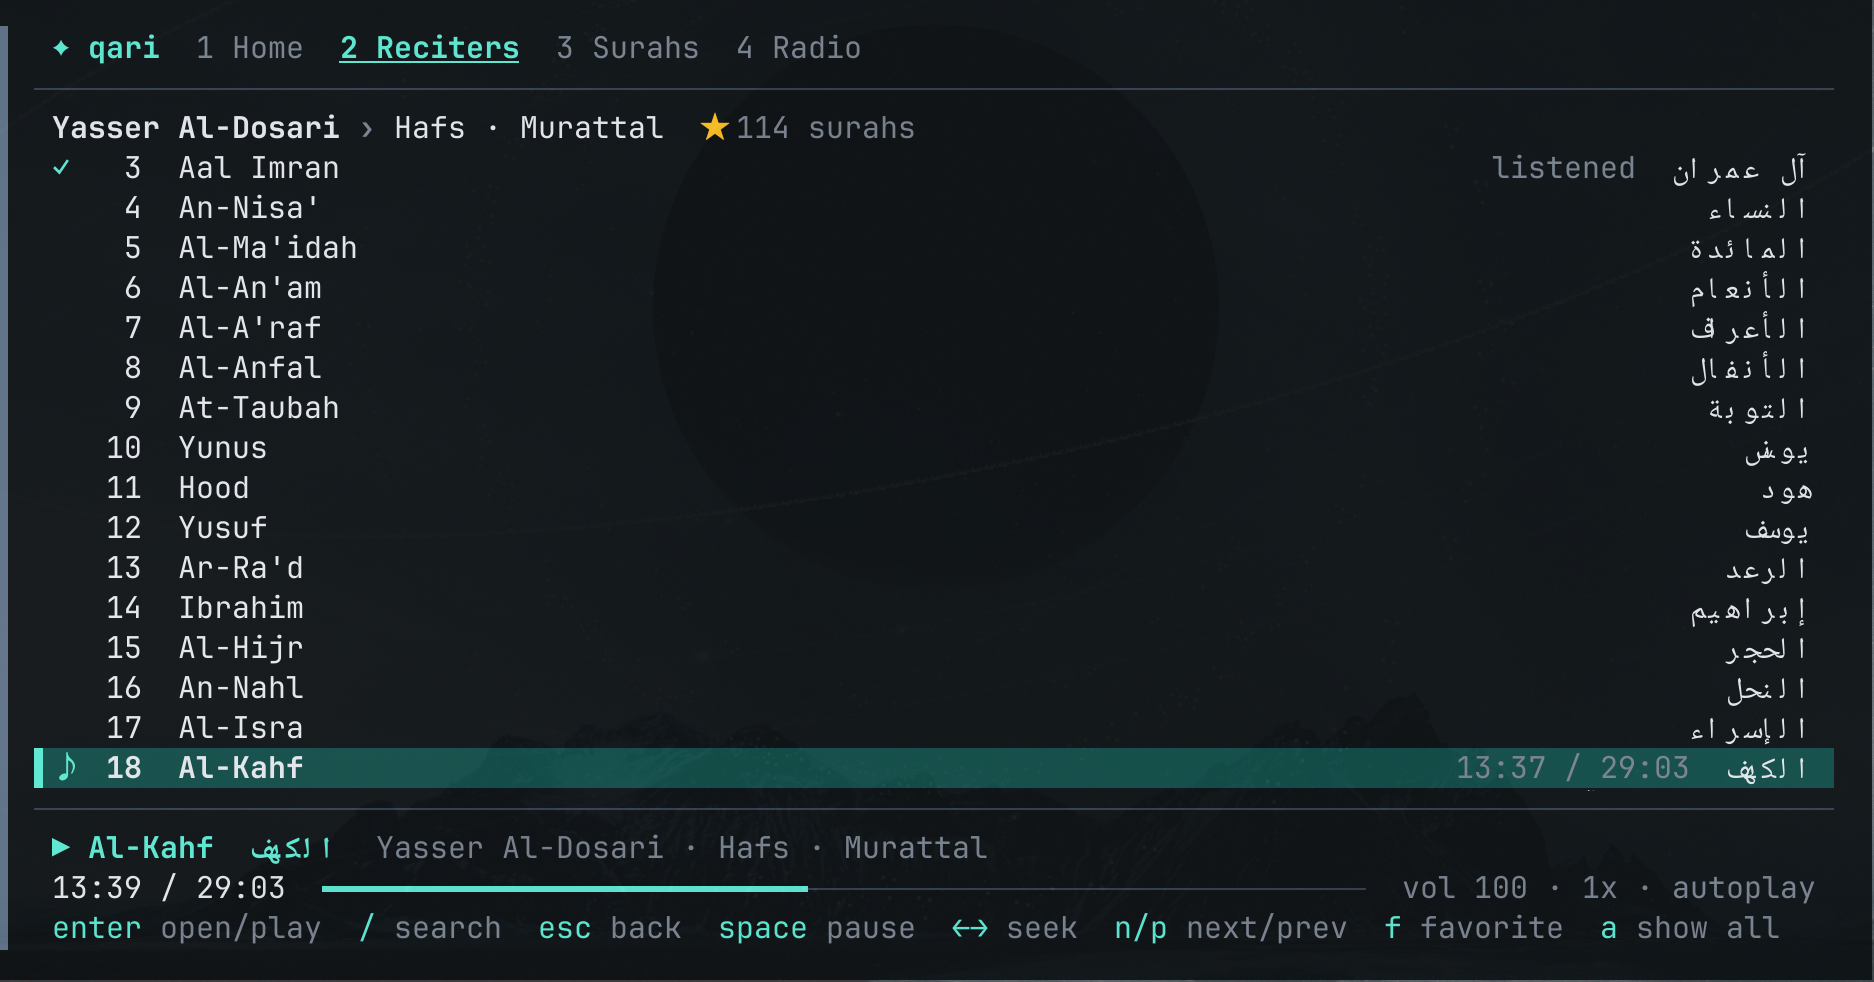
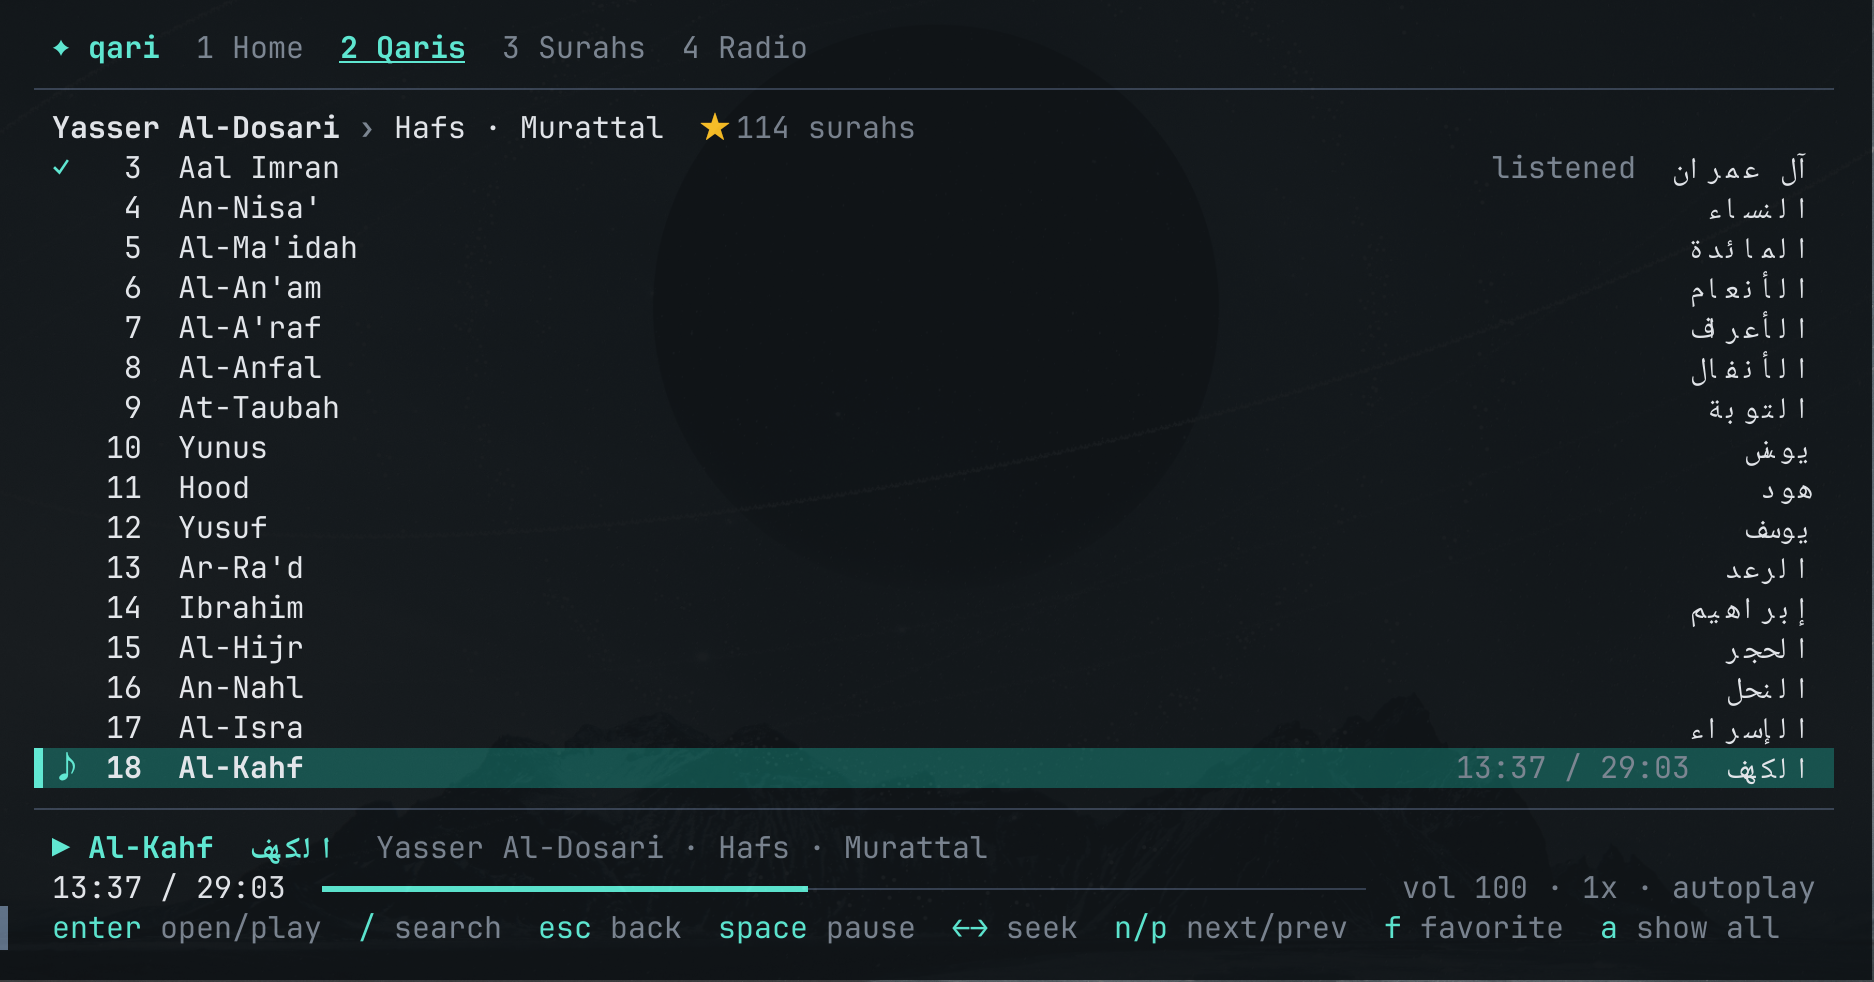
Call reciters qaris; keep their Arabic names searchable but hidden

Changed region(s): [[0.0, 0.0305, 0.0309, 0.9165], [0.1857, 0.0305, 0.4642, 0.0611]]

diff --git a/internal/ui/view.go b/internal/ui/view.go
@@ -21,7 +21,7 @@ func (m Model) View() string {
 		return m.errorView()
 	}
 	if m.cat == nil {
-		return "\n  " + m.spin.View() + sText.Render(" Loading reciters from mp3quran.net…")
+		return "\n  " + m.spin.View() + sText.Render(" Loading qaris from mp3quran.net…")
 	}
 	if m.showHelp {
 		return m.helpView()
@@ -66,9 +66,9 @@ func (m Model) crumbView() string {
 		title = "Home"
 	case scrReciters:
 		list, hidden := m.filteredReciters(s.surah)
-		title = "Reciters"
+		title = "Qaris"
 		if s.surah > 0 {
-			title = "Reciters of " + m.cat.SurahName(s.surah)
+			title = "Qaris of " + m.cat.SurahName(s.surah)
 		}
 		info = fmt.Sprintf("%d shown", len(list))
 		if hidden > 0 {
@@ -89,7 +89,7 @@ func (m Model) crumbView() string {
 		}
 	case scrAllSurahs:
 		title = "Surahs"
-		info = "enter: choose a reciter"
+		info = "enter: choose a qari"
 	case scrRadio:
 		title = "Radio"
 		info = fmt.Sprintf("%d live stations", len(m.cat.Radios))
@@ -218,8 +218,8 @@ func (m Model) helpView() string {
 			{"o", "open what is playing"},
 		}},
 		{"Filters", [][2]string{
-			{"a", "all reciters / well-known complete ones"}, {"s", "sort: popular, a-z, recently updated"},
-			{"w", "cycle riwayah (Hafs, Warsh, …)"}, {"f", "add / remove favorite"}, {"A", "show / hide Arabic names"},
+			{"a", "all qaris / well-known complete ones"}, {"s", "sort: popular, a-z, recently updated"},
+			{"w", "cycle riwayah (Hafs, Warsh, …)"}, {"f", "add / remove favorite"}, {"A", "show / hide Arabic surah names"},
 		}},
 		{"Playback", [][2]string{
 			{"space", "pause / resume"}, {"← →", "seek 10 s"}, {"[ ]", "seek 1 min"}, {"n p", "next / previous surah"},

diff --git a/internal/ui/rows.go b/internal/ui/rows.go
@@ -83,7 +83,8 @@ func (m *Model) filteredReciters(surah int) (list []*api.ReciterEntry, hidden in
 }
 
 func (m *Model) reciterRow(r *api.ReciterEntry, surah int) row {
-	rw := row{title: r.Name, arabic: r.Arabic, search: r.Search, data: r, metaSt: sDim}
+	// The Arabic name is searchable (r.Search) but not shown, to keep rows calm.
+	rw := row{title: r.Name, search: r.Search, data: r, metaSt: sDim}
 	if m.opt.Store.Favorites[r.ID] {
 		rw.mark, rw.markSt = "★", sGold
 	}
@@ -267,7 +268,7 @@ func (m *Model) homeRows() []row {
 	}
 	if len(favs) > 0 {
 		sort.Slice(favs, func(i, j int) bool { return norm.Fold(favs[i].Name) < norm.Fold(favs[j].Name) })
-		rows = append(rows, row{header: true, title: "Favorite reciters"})
+		rows = append(rows, row{header: true, title: "Favorite qaris"})
 		for _, r := range favs {
 			rows = append(rows, m.reciterRow(r, 0))
 		}

diff --git a/main.go b/main.go
@@ -28,7 +28,7 @@ var version = "dev"
 func main() {
 	lang := flag.String("lang", envOr("QARI_LANG", "eng"), "language for reciter and surah names (see --languages)")
 	proxy := flag.String("proxy", os.Getenv("QARI_PROXY"), "proxy URL for all traffic, e.g. socks5://127.0.0.1:1080")
-	noArabic := flag.Bool("no-arabic", false, "hide Arabic names (for terminals without Arabic text support)")
+	noArabic := flag.Bool("no-arabic", false, "hide Arabic surah names (for terminals without Arabic text support)")
 	languages := flag.Bool("languages", false, "list the name languages the API offers and exit")
 	showVersion := flag.Bool("version", false, "print the version and exit")
 	flag.Usage = func() {

diff --git a/internal/ui/model.go b/internal/ui/model.go
@@ -35,7 +35,7 @@ const (
 	tabRadio
 )
 
-var tabNames = []string{"Home", "Reciters", "Surahs", "Radio"}
+var tabNames = []string{"Home", "Qaris", "Surahs", "Radio"}
 
 type screenKind int
 
@@ -382,9 +382,9 @@ func (m Model) onKey(k tea.KeyMsg) (tea.Model, tea.Cmd) {
 		st.ShowAll = !st.ShowAll
 		m.refreshAll()
 		if st.ShowAll {
-			m.flash("Showing every reciter", false)
+			m.flash("Showing every qari", false)
 		} else {
-			m.flash("Showing well-known reciters with a complete Quran", false)
+			m.flash("Showing well-known qaris with a complete Quran", false)
 		}
 	case "s":
 		st := &m.opt.Store.Settings

diff --git a/README.md b/README.md
@@ -1,23 +1,23 @@
 # qari
 
-**Listen to the Quran from your terminal.** Browse 240+ reciters and all 114 surahs from
+**Listen to the Quran from your terminal.** Browse 240+ qaris (reciters) and all 114 surahs from
 [mp3quran.net](https://mp3quran.net), search in English or Arabic, and pick up exactly where
 you left off. Playback runs through [mpv](https://mpv.io).
 
-![Home screen: continue listening, favorite reciters and the most listened reciters](docs/home.png)
+![Home screen: continue listening, favorite qaris and the most listened qaris](docs/home.png)
 
-![A reciter's surah list while Al-Kahf is playing](docs/playing.png)
+![A qari's surah list while Al-Kahf is playing](docs/playing.png)
 
 ## Features
 
-- **Browse by reciter or by surah.** Open a reciter to see their recitations and surahs, or open
-  a surah to see every reciter who recorded it.
-- **Search in any script.** `afasy`, `العفاسي` and `العَفاسي` all find the same reciter;
+- **Browse by qari or by surah.** Open a qari to see their recitations and surahs, or open
+  a surah to see every qari who recorded it.
+- **Search in any script.** `afasy`, `العفاسي` and `العَفاسي` all find the same qari;
   `kahf`, `18` and `الكهف` all find the same surah. Diacritics and letter variants (أ/إ/ا, ة/ه, ى/ي)
   are ignored.
-- **Sensible default list.** By default you see well-known reciters with a complete recording
+- **Sensible default list.** By default you see well-known qaris with a complete recording
   of the Quran. Press `a` to show everyone, including partial and lesser-known recordings.
-- **Most listened first.** Reciters are ranked by real listening numbers (see
+- **Most listened first.** Qaris are ranked by real listening numbers (see
   [Popularity data](#popularity-data)). Sort by name or by recently updated with `s`.
 - **Remembers your place.** Every surah keeps its position. *Continue listening* on the home
   screen resumes it, and finished surahs get a ✓.
@@ -27,7 +27,7 @@ you left off. Playback runs through [mpv](https://mpv.io).
 - **Favorites** and **live Quran radio** stations.
 - **Media keys** work if you have [mpv-mpris](https://github.com/hoyon/mpv-mpris) installed.
 - **Works offline** for browsing: the catalog is cached for a day and used when you are offline.
-- **Name language:** reciter and surah names in any of the 21 languages the API offers
+- **Name language:** qari and surah names in any of the 21 languages the API offers
   (`--lang fr`, `--lang ur`, …). The interface itself is English.
 
 ## Install
@@ -59,7 +59,7 @@ Run `qari`. Press `?` at any time for the full list of keys.
 
 | Key | Action |
 | --- | --- |
-| `1`–`4`, `tab` | Home, Reciters, Surahs, Radio |
+| `1`–`4`, `tab` | Home, Qaris, Surahs, Radio |
 | `↑` `↓` / `j` `k` | Move |
 | `enter` | Open, or play |
 | `/` | Search the current list |
@@ -68,7 +68,7 @@ Run `qari`. Press `?` at any time for the full list of keys.
 | `←` `→` / `[` `]` | Seek 10 seconds / 1 minute |
 | `n` `p` | Next / previous surah |
 | `f` | Add or remove a favorite |
-| `a` | Show all reciters / only well-known complete ones |
+| `a` | Show all qaris / only well-known complete ones |
 | `s` | Sort: popular, A–Z, recently updated |
 | `w` | Filter by riwayah |
 | `r` | After a surah: autoplay next, repeat, or stop |
@@ -76,16 +76,16 @@ Run `qari`. Press `?` at any time for the full list of keys.
 | `-` `+` | Volume |
 | `<` `>` | Speed |
 | `o` | Jump to what is playing |
-| `A` | Show or hide Arabic names |
+| `A` | Show or hide Arabic surah names |
 | `q` | Quit (your place is saved) |
 
 ### Options
 
 ```text
---lang CODE    language for reciter and surah names (default eng; see --languages)
+--lang CODE    language for qari and surah names (default eng; see --languages)
 --languages    list the languages the API offers
 --proxy URL    send all traffic through a proxy, e.g. socks5://127.0.0.1:1080
---no-arabic    hide the Arabic name column
+--no-arabic    hide the Arabic surah names
 --version      print the version
 ```
 
@@ -93,7 +93,8 @@ Run `qari`. Press `?` at any time for the full list of keys.
 
 ### Arabic text
 
-Arabic names show up correctly in terminals that support right-to-left text, such as Konsole,
+Qari names are searchable in Arabic but shown only in the chosen language. Arabic surah
+names show up correctly in terminals that support right-to-left text, such as Konsole,
 GNOME Terminal and other VTE terminals, WezTerm and mlterm. In terminals without it, Arabic looks
 reversed. Use `--no-arabic` or press `A` there. Searching in Arabic works in every terminal.
 
